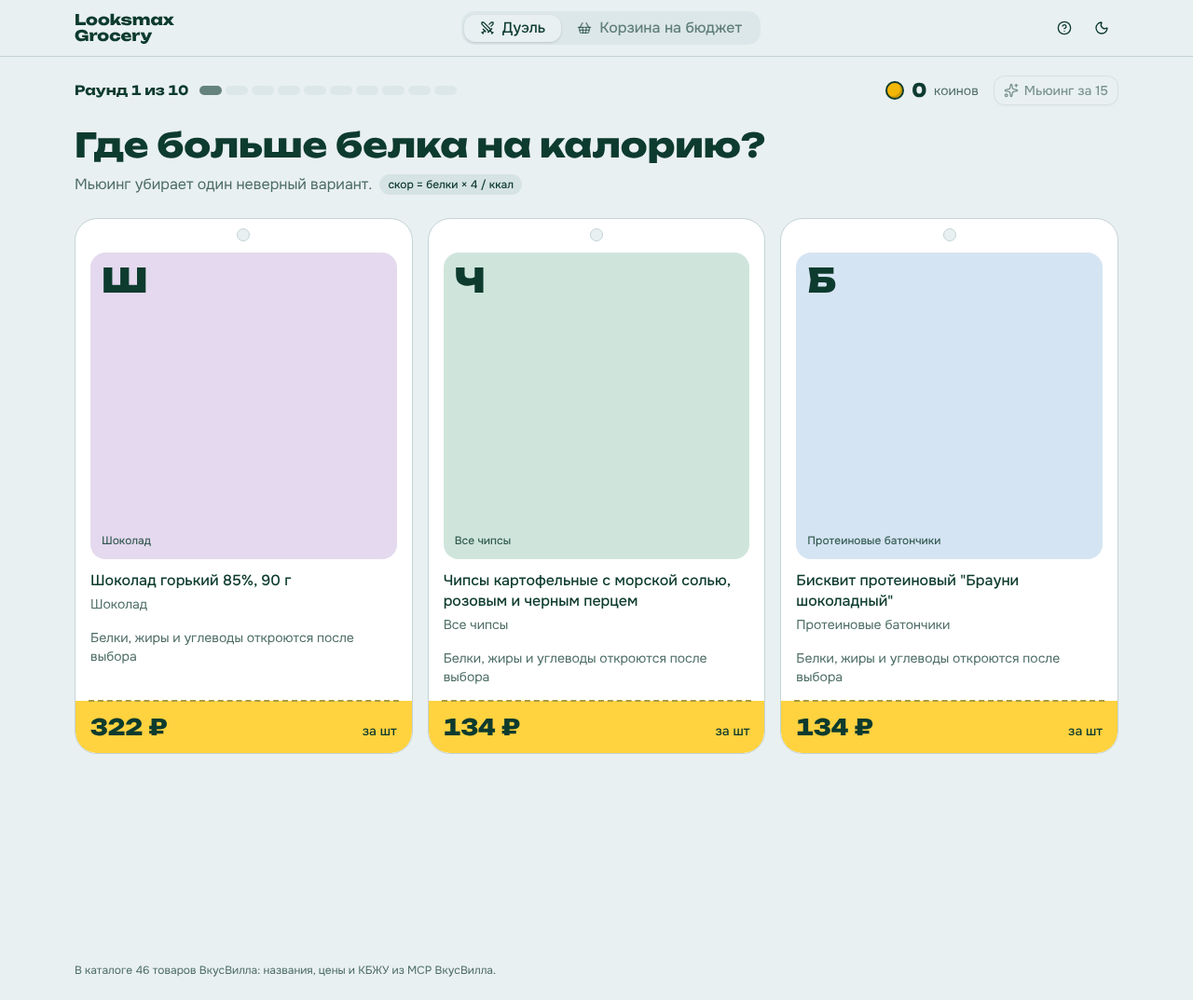
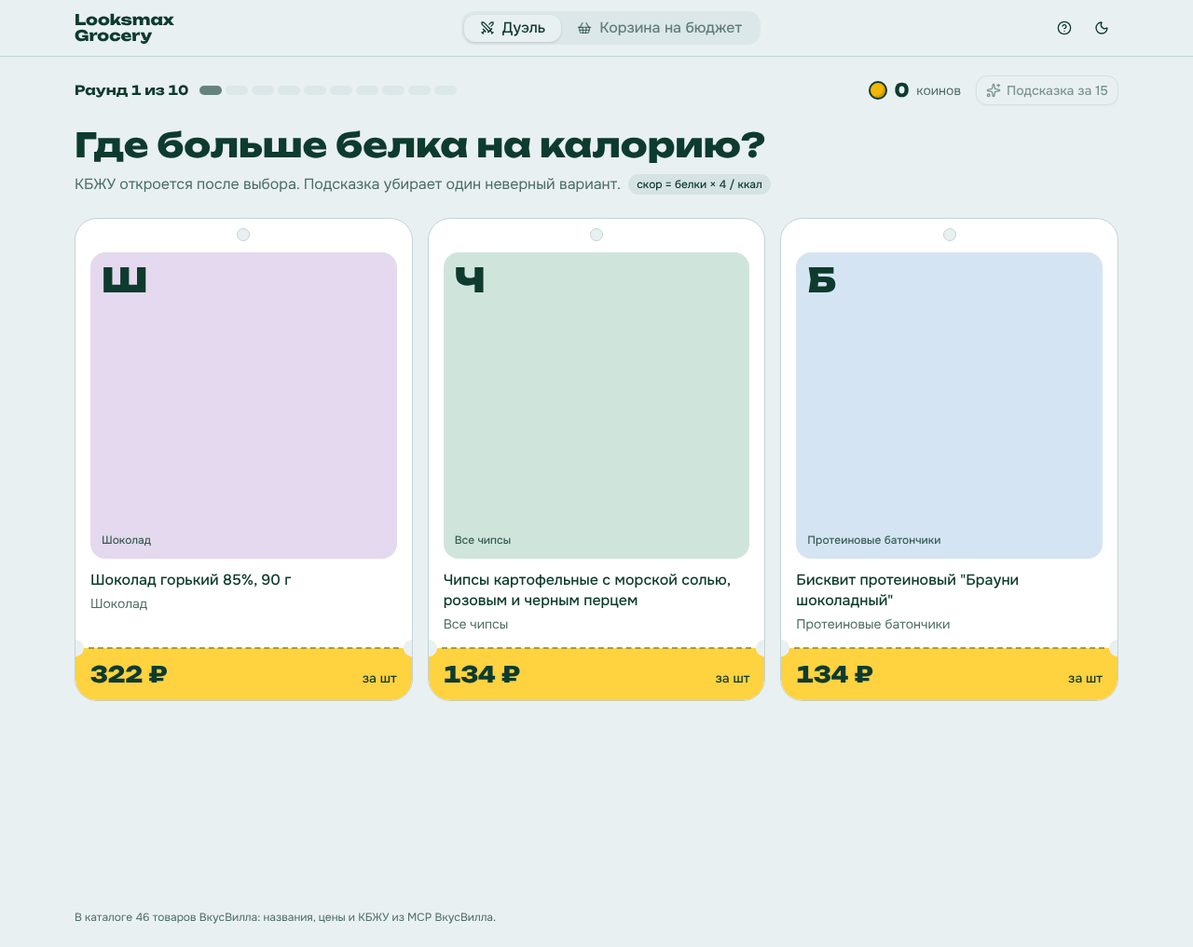
Подсказка вместо мьюинга, без повторной надписи в карточках, отчёт о сдаче
Мьюинг переименован в подсказку в интерфейсе, сообщениях об ошибках, правилах,
README и контракте. Надпись «Белки, жиры и углеводы откроются после выбора»
убрана из трёх карточек раунда и осталась один раз в подзаголовке.

docs/submission.md: что сдавать по практике 4, статус по каждому критерию,
где лежат доказательства, что осталось написать и сценарий защиты.

Claude-Session: https://claude.ai/code/session_01XJri92xyKQyNwVFAuMPHxa

diff --git a/practices/practice_04/looksmax/web/src/lib/game.ts b/practices/practice_04/looksmax/web/src/lib/game.ts
@@ -1,4 +1,4 @@
-// Состояние игры «Дуэль»: коины, серия, подсказка «мьюинг», ранг. Все функции чистые.
+// Состояние игры «Дуэль»: коины, серия, подсказка, ранг. Все функции чистые.
 import type { Round } from "./duel"
 import type { Product } from "./types"
 
@@ -41,7 +41,7 @@ export type Game = {
   streak: number
   correct: number
   picks: Pick[]
-  // Какой товар убран мьюингом в раунде с таким индексом.
+  // Какой товар убран подсказкой в раунде с таким индексом.
   removed: Record<number, number>
 }
 
@@ -65,7 +65,7 @@ export function choose(state: Game, productId: number): Game {
   const round = state.rounds[state.index]
   if (currentPick(state)) throw new Error("в этом раунде товар уже выбран: нажми «Дальше»")
   if (!round.products.some((p) => p.id === productId)) throw new Error(`товара ${productId} нет в текущем раунде`)
-  if (removedId(state) === productId) throw new Error("этот товар убран мьюингом, выбери из оставшихся")
+  if (removedId(state) === productId) throw new Error("этот товар убран подсказкой, выбери из оставшихся")
   const correct = productId === round.winnerId
   const streak = correct ? state.streak + 1 : 0
   return {
@@ -81,11 +81,11 @@ export function canUseHint(state: Game): boolean {
   return !isFinished(state) && !currentPick(state) && removedId(state) === null && state.coins >= HINT_COST
 }
 
-// Мьюинг: за 15 коинов убирает один случайный неверный вариант раунда.
+// Подсказка: за 15 коинов убирает один случайный неверный вариант раунда.
 export function useHint(state: Game, random: () => number = Math.random): Game {
-  if (removedId(state) !== null) throw new Error("мьюинг в этом раунде уже использован")
-  if (currentPick(state)) throw new Error("товар уже выбран: мьюинг работает только до выбора")
-  if (state.coins < HINT_COST) throw new Error(`для мьюинга нужно ${HINT_COST} коинов, а у тебя ${state.coins}`)
+  if (removedId(state) !== null) throw new Error("подсказка в этом раунде уже использована")
+  if (currentPick(state)) throw new Error("товар уже выбран: подсказка работает только до выбора")
+  if (state.coins < HINT_COST) throw new Error(`для подсказки нужно ${HINT_COST} коинов, а у тебя ${state.coins}`)
   const round = state.rounds[state.index]
   const wrong = round.products.filter((p) => p.id !== round.winnerId)
   const removed = wrong[Math.floor(random() * wrong.length)]

diff --git a/practices/practice_04/looksmax/web/src/lib/game.test.ts b/practices/practice_04/looksmax/web/src/lib/game.test.ts
@@ -94,7 +94,7 @@ describe("ход игры", () => {
   })
 })
 
-describe("подсказка «мьюинг»", () => {
+describe("подсказка", () => {
   // После двух верных: 20 коинов, текущий раунд 2 — товары 21 (победитель), 22, 23.
   const thirdRound = () => nextRound(play([true, true]))
   const first = () => 0
@@ -117,7 +117,7 @@ describe("подсказка «мьюинг»", () => {
   test("недоступна, если коинов меньше 15", () => {
     const state = nextRound(play([true])) // 10 коинов
     expect(canUseHint(state)).toBe(false)
-    expect(() => useHint(state, first)).toThrow(/15/)
+    expect(() => useHint(state, first)).toThrow(/подсказк.*15/)
   })
   test("при балансе ровно 15 доступна и оставляет 0, в минус не уходит", () => {
     // 30 коинов → подсказка → 15, неверный выбор → следующая подсказка → 0.
@@ -134,14 +134,15 @@ describe("подсказка «мьюинг»", () => {
     const state = useHint(nextRound(play([true, true, true])), first)
     expect(state.coins).toBe(20)
     expect(canUseHint(state)).toBe(false)
-    expect(() => useHint(state, first)).toThrow(/уже/)
+    expect(() => useHint(state, first)).toThrow(/подсказк.*уже/)
   })
   test("недоступна после выбора", () => {
     expect(canUseHint(play([true, true]))).toBe(false)
+    expect(() => useHint(play([true, true, true]), first)).toThrow(/подсказк.*до выбора/)
   })
   test("убранный товар нельзя выбрать", () => {
     const state = useHint(thirdRound(), first)
-    expect(() => choose(state, 22)).toThrow(/убран/)
+    expect(() => choose(state, 22)).toThrow(/убран подсказкой/)
   })
   test("не трогает исходное состояние", () => {
     const before = thirdRound()

diff --git a/practices/practice_04/looksmax/web/src/components/PriceTag.tsx b/practices/practice_04/looksmax/web/src/components/PriceTag.tsx
@@ -24,7 +24,7 @@ type Props = {
 export function PriceTag({ product, state, revealed, disabled, index, onSelect }: Props) {
   const tone: RulerTone = state === "winner" ? "winner" : state === "wrong" ? "wrong" : "neutral"
   const stamp = STAMP[state]
-  const label = state === "removed" ? `${product.name}, убран мьюингом` : `${product.name}, ${rub(product.price)}`
+  const label = state === "removed" ? `${product.name}, убран подсказкой` : `${product.name}, ${rub(product.price)}`
 
   return (
     <button
@@ -51,7 +51,7 @@ export function PriceTag({ product, state, revealed, disabled, index, onSelect }
         </div>
       </div>
 
-      {revealed ? (
+      {revealed && (
         <div className="px-4 pb-4">
           <div className="flex items-end justify-between gap-2">
             <span className="text-sm text-muted-foreground">белки × 4 / ккал</span>
@@ -72,8 +72,6 @@ export function PriceTag({ product, state, revealed, disabled, index, onSelect }
             ))}
           </dl>
         </div>
-      ) : (
-        <p className="px-4 pb-4 text-sm text-muted-foreground">Белки, жиры и углеводы откроются после выбора</p>
       )}
 
       <div className="tag-strip mt-auto flex items-baseline justify-between gap-2 px-4 py-3">
@@ -94,7 +92,7 @@ export function PriceTag({ product, state, revealed, disabled, index, onSelect }
       )}
       {state === "removed" && (
         <span className="absolute inset-x-0 top-1/3 text-center font-display text-lg font-bold text-foreground" aria-hidden="true">
-          убран мьюингом
+          убран подсказкой
         </span>
       )}
     </button>

diff --git a/practices/practice_04/looksmax/web/src/components/RulesDialog.tsx b/practices/practice_04/looksmax/web/src/components/RulesDialog.tsx
@@ -30,7 +30,7 @@ export function RulesDialog({ mode }: { mode: Mode }) {
             <li>Выбери товар, в котором больше белка на калорию. Скор = белки × 4 / ккал: доля калорий, которая приходится на белок.</li>
             <li>Победитель в раунде один: его скор выше второго места минимум на 0,03.</li>
             <li>Верный ответ даёт 10 лукс-коинов, а начиная с третьего верного подряд ещё 5 за каждый.</li>
-            <li>Мьюинг за {HINT_COST} коинов убирает один неверный вариант. Баланс в минус не уходит.</li>
+            <li>Подсказка за {HINT_COST} коинов убирает один неверный вариант. Баланс в минус не уходит.</li>
             <li>В конце ты получаешь ранг от sub3 до true adam и корзину из своих выборов.</li>
           </ul>
         ) : (

diff --git a/practices/practice_04/looksmax/web/src/games/duel/DuelRound.tsx b/practices/practice_04/looksmax/web/src/games/duel/DuelRound.tsx
@@ -68,7 +68,7 @@ export function DuelRound({ game, onChoose, onHint, onNext }: Props) {
         <div className="flex items-center gap-4">
           <CoinCounter coins={game.coins} />
           <Button variant="outline" size="sm" onClick={onHint} disabled={!canUseHint(game)}>
-            <Sparkles aria-hidden="true" /> Мьюинг за {HINT_COST}
+            <Sparkles aria-hidden="true" /> Подсказка за {HINT_COST}
           </Button>
         </div>
       </div>
@@ -77,7 +77,7 @@ export function DuelRound({ game, onChoose, onHint, onNext }: Props) {
         Где больше белка на калорию?
       </h1>
       <p className="mt-2 flex flex-wrap items-center gap-2 text-muted-foreground">
-        Мьюинг убирает один неверный вариант.
+        КБЖУ откроется после выбора. Подсказка убирает один неверный вариант.
         <Badge variant="secondary">скор = белки × 4 / ккал</Badge>
       </p>
 

diff --git a/practices/practice_04/looksmax/docs/submission.md b/practices/practice_04/looksmax/docs/submission.md
@@ -1,0 +1,117 @@
+# Что сдавать по практике 4
+
+Требования взяты из `practices/practice_04/README.md`. Оценка 10 баллов, статус на сейчас:
+
+| Критерий | Баллы | Сейчас | Чего не хватает |
+|---|---:|---:|---|
+| Среда: `AGENTS.md`, skill, MCP, hook, обоснование подключений (по 1) | 5 | 4 | Обоснование подключений |
+| Skill: устройство (1) и запуск с проверенным результатом (1) | 2 | 1 | Свой разбор готового skill |
+| Свой MCP: полезный tool (1), вызов с успехом и ошибкой (1) | 2 | 2 | Ничего |
+| `reflection.md` | 1 | 0 | Файла нет |
+| **Итого** | **10** | **7** | Три текста вашими словами |
+
+Весь код и доказательства уже в репозитории. Осталось написать три коротких текста. За вас я их не пишу: проверяющим нужны ваши слова, а ниже для каждого лежат факты и черновые тезисы.
+
+## Что сдавать
+
+| Что просят | Где лежит | Статус |
+|---|---|---|
+| `AGENTS.md` | `AGENTS.md` (и `CLAUDE.md`, который подключает его через `@AGENTS.md`) | готово |
+| Выбранный skill со связанными ресурсами | `.claude/skills/test-driven-development/` (`SKILL.md`, `writing-good-tests.md`, `LICENSE`), `.claude/skills/frontend-design/` | готово |
+| MCP-конфигурация | `.mcp.json`: `vkusvill`, `looksmax`, `shadcn` | готово |
+| Hook | `.claude/hooks/check-after-edit.sh`, подключён в `.claude/settings.json` (PostToolUse на Edit, Write, MultiEdit) | готово |
+| Runner | `tools/run_agent.sh` (headless-сессия, лог в `docs/evidence/raw/`), `tools/evidence_summary.py` (сводка лога) | готово |
+| Разбор готового skill, 3–4 предложения | нет | **написать** |
+| Подтверждение запуска skill и результата | `docs/evidence/raw/02…09`, см. ниже | готово |
+| Файлы собственного MCP | `server.py`, `core/`, `tests/test_server.py` | готово |
+| Подтверждение успешного вызова и ошибочного входа | `docs/evidence/raw/05-own-mcp-demo.jsonl` | готово |
+| `reflection.md` | нет | **написать** |
+| Объяснение, зачем нужны подключения | нет | **написать** |
+
+Показать можно демо с экрана или `.html`-презентацию с ссылками на файлы. Субагент необязателен и на оценку не влияет.
+
+## Доказательства применения
+
+Проверяющим нужны подтверждения действий, а не наличие файлов. Каждый лог открывается так: `python3 tools/evidence_summary.py docs/evidence/raw/ИМЯ.jsonl`.
+
+| Что доказать | Где смотреть | Что видно |
+|---|---|---|
+| Агент применил `AGENTS.md` | `01-rules-and-mcp.jsonl` | Агент пересказал правила (команда `sh scripts/check.sh`, что нельзя без поручения), не читая `AGENTS.md`: они пришли через `CLAUDE.md` |
+| Агент загрузил skill | `02`, `03`, `04`, `06`, `07`, `09` (`test-driven-development`), `08` (`frontend-design`, `test-driven-development`, `run`) | Событие `Skill` в логе, затем чтение `writing-good-tests.md` |
+| Агент вызвал MCP tool | `01`, `02`, `03` (`vkusvill`: поиск, `product_details`, `cart_link_create`), `05`, `06`, `07` (`looksmax`) | События `mcp__…` с аргументами и ответами |
+| Hook вернул результат агенту | `02`: 13 PASS и 18 FAIL, `08`: 24 и 14, `04`: 6 и 15, `03`: 10 и 5 | FAIL приходит как блокировка с хвостом вывода тестов, агент чинит и добивается PASS. Это красная и зелёная фазы TDD |
+| Свой MCP: успех и ошибка | `05-own-mcp-demo.jsonl` | Успех: `score_product(27695)`, `build_round("творог")`, `judge_round`. Ошибка: `score_product(-5)`, `score_product(999999999)`, `build_round("")`, `judge_round` с двумя id. Каждая ошибка объясняет, что исправить |
+| Результат проверен | `check.sh: OK`: 111 тестов Python и 119 тестов фронтенда | Запускается командой `sh scripts/check.sh` |
+
+**Оговорка про новую версию.** Игру «Корзина на бюджет», случайные тройки и интерфейс на shadcn делала не headless-сессия `run_agent.sh`, а облачная сессия вне папки проекта. Поэтому hook там не срабатывал, а в `raw/` нет её лога. Что у неё есть:
+- журнал реальных вызовов MCP shadcn: `docs/evidence/shadcn-mcp.json` (13 вызовов `get_component`);
+- скриншоты `docs/evidence/screenshots/v2-*.png`;
+- тесты и коммиты.
+
+Если нужен лог агента именно с MCP shadcn, выполните один раз у себя (нужен доступ к npm и GitHub):
+
+```sh
+tools/run_agent.sh 10-shadcn "Получи через MCP shadcn компонент checkbox и положи его в web/src/components/ui/. Затем запусти sh scripts/check.sh."
+```
+
+## Что написать
+
+### 1. Обоснование подключений (1 балл)
+
+Нужно по каждому подключению: зачем оно и какой шаг задачи стал лучше. Черновик фактов:
+
+| Подключение | Зачем | Какой шаг улучшило |
+|---|---|---|
+| `AGENTS.md` | Правила лежат в проекте и подключаются сами | Агент не трогал `requirements.md`, `check.sh`, `.claude/`, не делал `git commit`, не ходил в закрытые tools ВкусВилла |
+| MCP `vkusvill` | Единственный источник реальных товаров, цен и КБЖУ | Фикстуры тестов сняты из настоящих ответов, а не выдуманы. Так нашли, что `weight` в поиске врёт, а у мяса КБЖУ без жиров и углеводов |
+| MCP `looksmax` (свой) | Агент проверяет данные теми же функциями, что и игра | `build_round` отверг запросы «курица» и «напиток» с понятным текстом, и агент подобрал рабочие запросы (сессии 06, 07) |
+| MCP `shadcn` | Исходники компонентов из первоисточника, а не по памяти модели | Компоненты интерфейса получены вызовами `get_component` без ручного переписывания |
+| Hook | Проверка запускается после каждой правки и возвращает результат агенту | Агент сразу видит красный тест и чинит его, не дожидаясь вас |
+| Skill `test-driven-development` | Заставляет писать падающий тест до кода | 18 красных запусков hook в сессии 02 превратились в зелёные |
+| Skill `frontend-design` | Требует план дизайна и проверку на шаблонность до кода | В сессии 08 агент составил план (палитра, шрифты, раскладка) и пересмотрел его |
+
+### 2. Разбор готового skill (1 балл)
+
+Оба skill готовые, не ваши: `test-driven-development` под лицензией MIT (Jesse Vincent), `frontend-design` под Apache 2.0. Нужен разбор своими словами в 3–4 предложениях. Достаточно про один, лучше про оба коротко.
+
+Что в них есть, чтобы пересказать:
+- **TDD.** «Железный закон»: никакого кода без падающего теста. Цикл красный, зелёный, рефакторинг. Тест надо увидеть упавшим по правильной причине. Исключения (прототип, сгенерированный код, конфиги) согласуются с человеком. Рядом лежит `writing-good-tests.md` с примерами хороших и плохих тестов.
+- **frontend-design.** Сначала план из палитры в 4–6 цветов, шрифтов, раскладки и принципов. Потом сверка с перечнем шаблонных приёмов (кремовый фон с терракотой, чёрное с кислотно-зелёным, одинаковые скруглённые карточки). Потом код и самокритика по скриншотам. Одно смелое решение, остальное сдержанно.
+
+Что получилось при запуске: TDD дал 111 тестов Python и 119 тестов фронтенда, в логе 02 видны красные и зелёные прогоны. `frontend-design` дал дизайн «ценник в холодильном ряду», скриншоты в `docs/evidence/screenshots/`.
+
+### 3. `reflection.md` (1 балл)
+
+Формат свободный, «правильного» мнения нет, нужны конкретные наблюдения. Место: `practices/practice_04/looksmax/reflection.md`. Что в логах и истории реально случилось, можно выбрать любое:
+
+**Что помогло.**
+- Hook возвращал красный тест прямо агенту, и тот чинил его сам.
+- Понятные тексты ошибок своего MCP: по ним агент сам выбирал другой запрос.
+- Сохранённые реальные ответы ВкусВилла вместо выдуманных данных.
+
+**Что мешало.**
+- Сложные команды в Bash требовали одобрения («contains multiple operations»): 11 раз в сессии 08, ещё в 03–07. Headless-агент без вас встаёт.
+- В сессии 08 агенту не разрешили запустить Chrome и `curl`, поэтому он писал интерфейс, ни разу его не увидев.
+- В сессии 09 закончился лимит, и ни одной правки не сделано.
+- Свой MCP-сервер `looksmax` в сессиях 01–04 числился `failed`, потому что его ещё не было.
+- Шаблон `lib/` в корневом `.gitignore` курса молча выкинул из коммита всю игровую логику, и сборка в чистом клоне упала на `@/lib/…`. Локально всё работало.
+
+**Где пришлось вмешаться.**
+- Поправили контракт под мясо и рыбу: жиры и углеводы там не указаны (сессия 06).
+- Нашли, что браузер не может сам позвать MCP ВкусВилла (CORS), и вынесли корзину в `serve.py`.
+- Свои решения: ранги, штраф за подсказку, правила корзины на бюджет (каждый товар один раз, не больше 2 из категории, лимит 2000 ккал).
+
+## Сценарий защиты, 5–7 минут
+
+1. **Среда.** Показать `AGENTS.md` и спросить агента в папке проекта, какие у него правила (повторить сессию 01). Затем показать `.mcp.json` и `.claude/settings.json`.
+2. **Hook.** Попросить агента правкой сломать тест, показать, как красный результат возвращается ему, и зелёный после исправления.
+3. **Skill.** Показать `Skill`-событие в логе 02, красные и зелёные прогоны, разбор своими словами.
+4. **Свой MCP.** Вызвать `build_round("творог")`, затем `score_product(-5)` и показать текст ошибки (или лог `05`).
+5. **Результат.** Запустить `.venv/bin/python serve.py`, показать обе игры.
+6. **Свои выводы.** Прочитать `reflection.md`: где вмешались и что поняли.
+
+## Перед сдачей
+
+- `git pull`, затем `sh scripts/check.sh` должен вернуть `check.sh: OK`.
+- Полный каталог вместо стартовых 46 товаров: `.venv/bin/python scripts/build_catalog.py`, нужен доступ к `mcp.vkusvill.ru`, затем `npm --prefix web run build`.
+- Не коммитьте `.claude/settings.local.json` и `.venv/`: они в `.gitignore`.

diff --git a/practices/practice_04/looksmax/docs/requirements.md b/practices/practice_04/looksmax/docs/requirements.md
@@ -41,7 +41,7 @@ score = белки × 4 / ккал
 - Старт: 0.
 - Верный выбор: +10.
 - Серия: начиная с третьего верного ответа подряд, ещё +5 за каждый.
-- Подсказка «мьюинг» стоит 15 и убирает один неверный вариант текущего раунда. Недоступна, если коинов меньше 15. Баланс не уходит в минус.
+- Подсказка стоит 15 и убирает один неверный вариант текущего раунда. Недоступна, если коинов меньше 15. Баланс не уходит в минус.
 
 ## 5. Ранг
 
